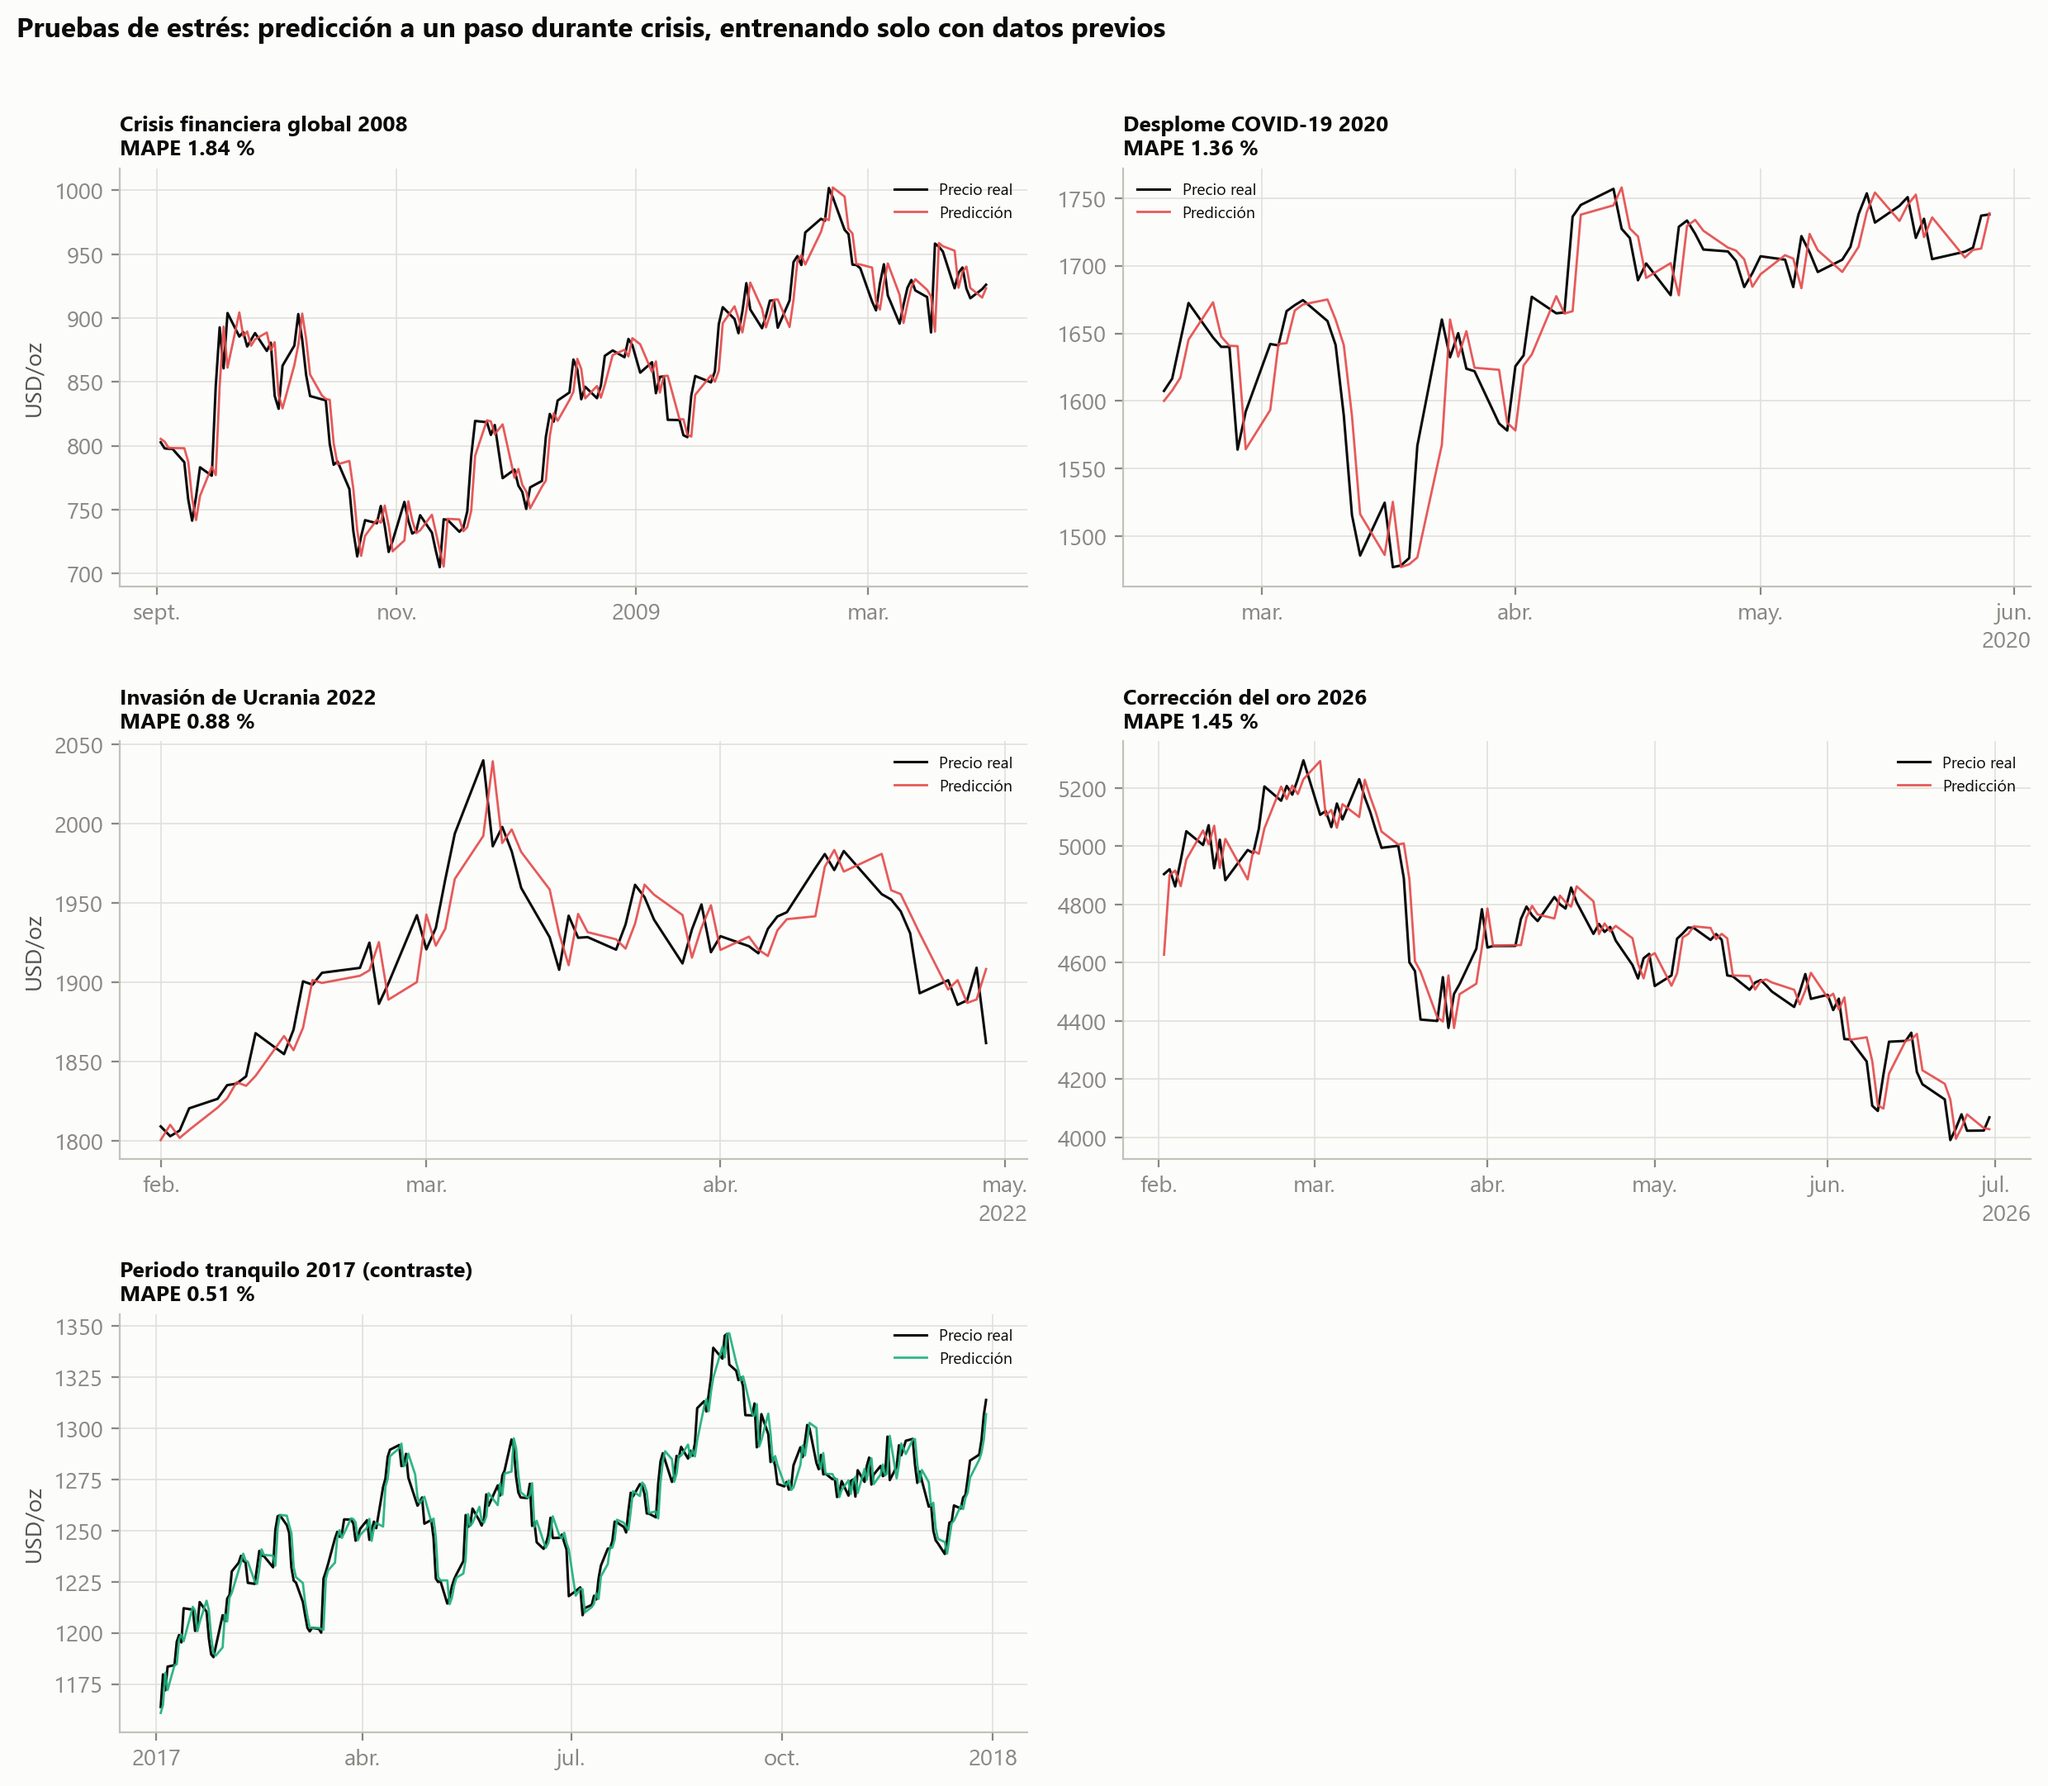
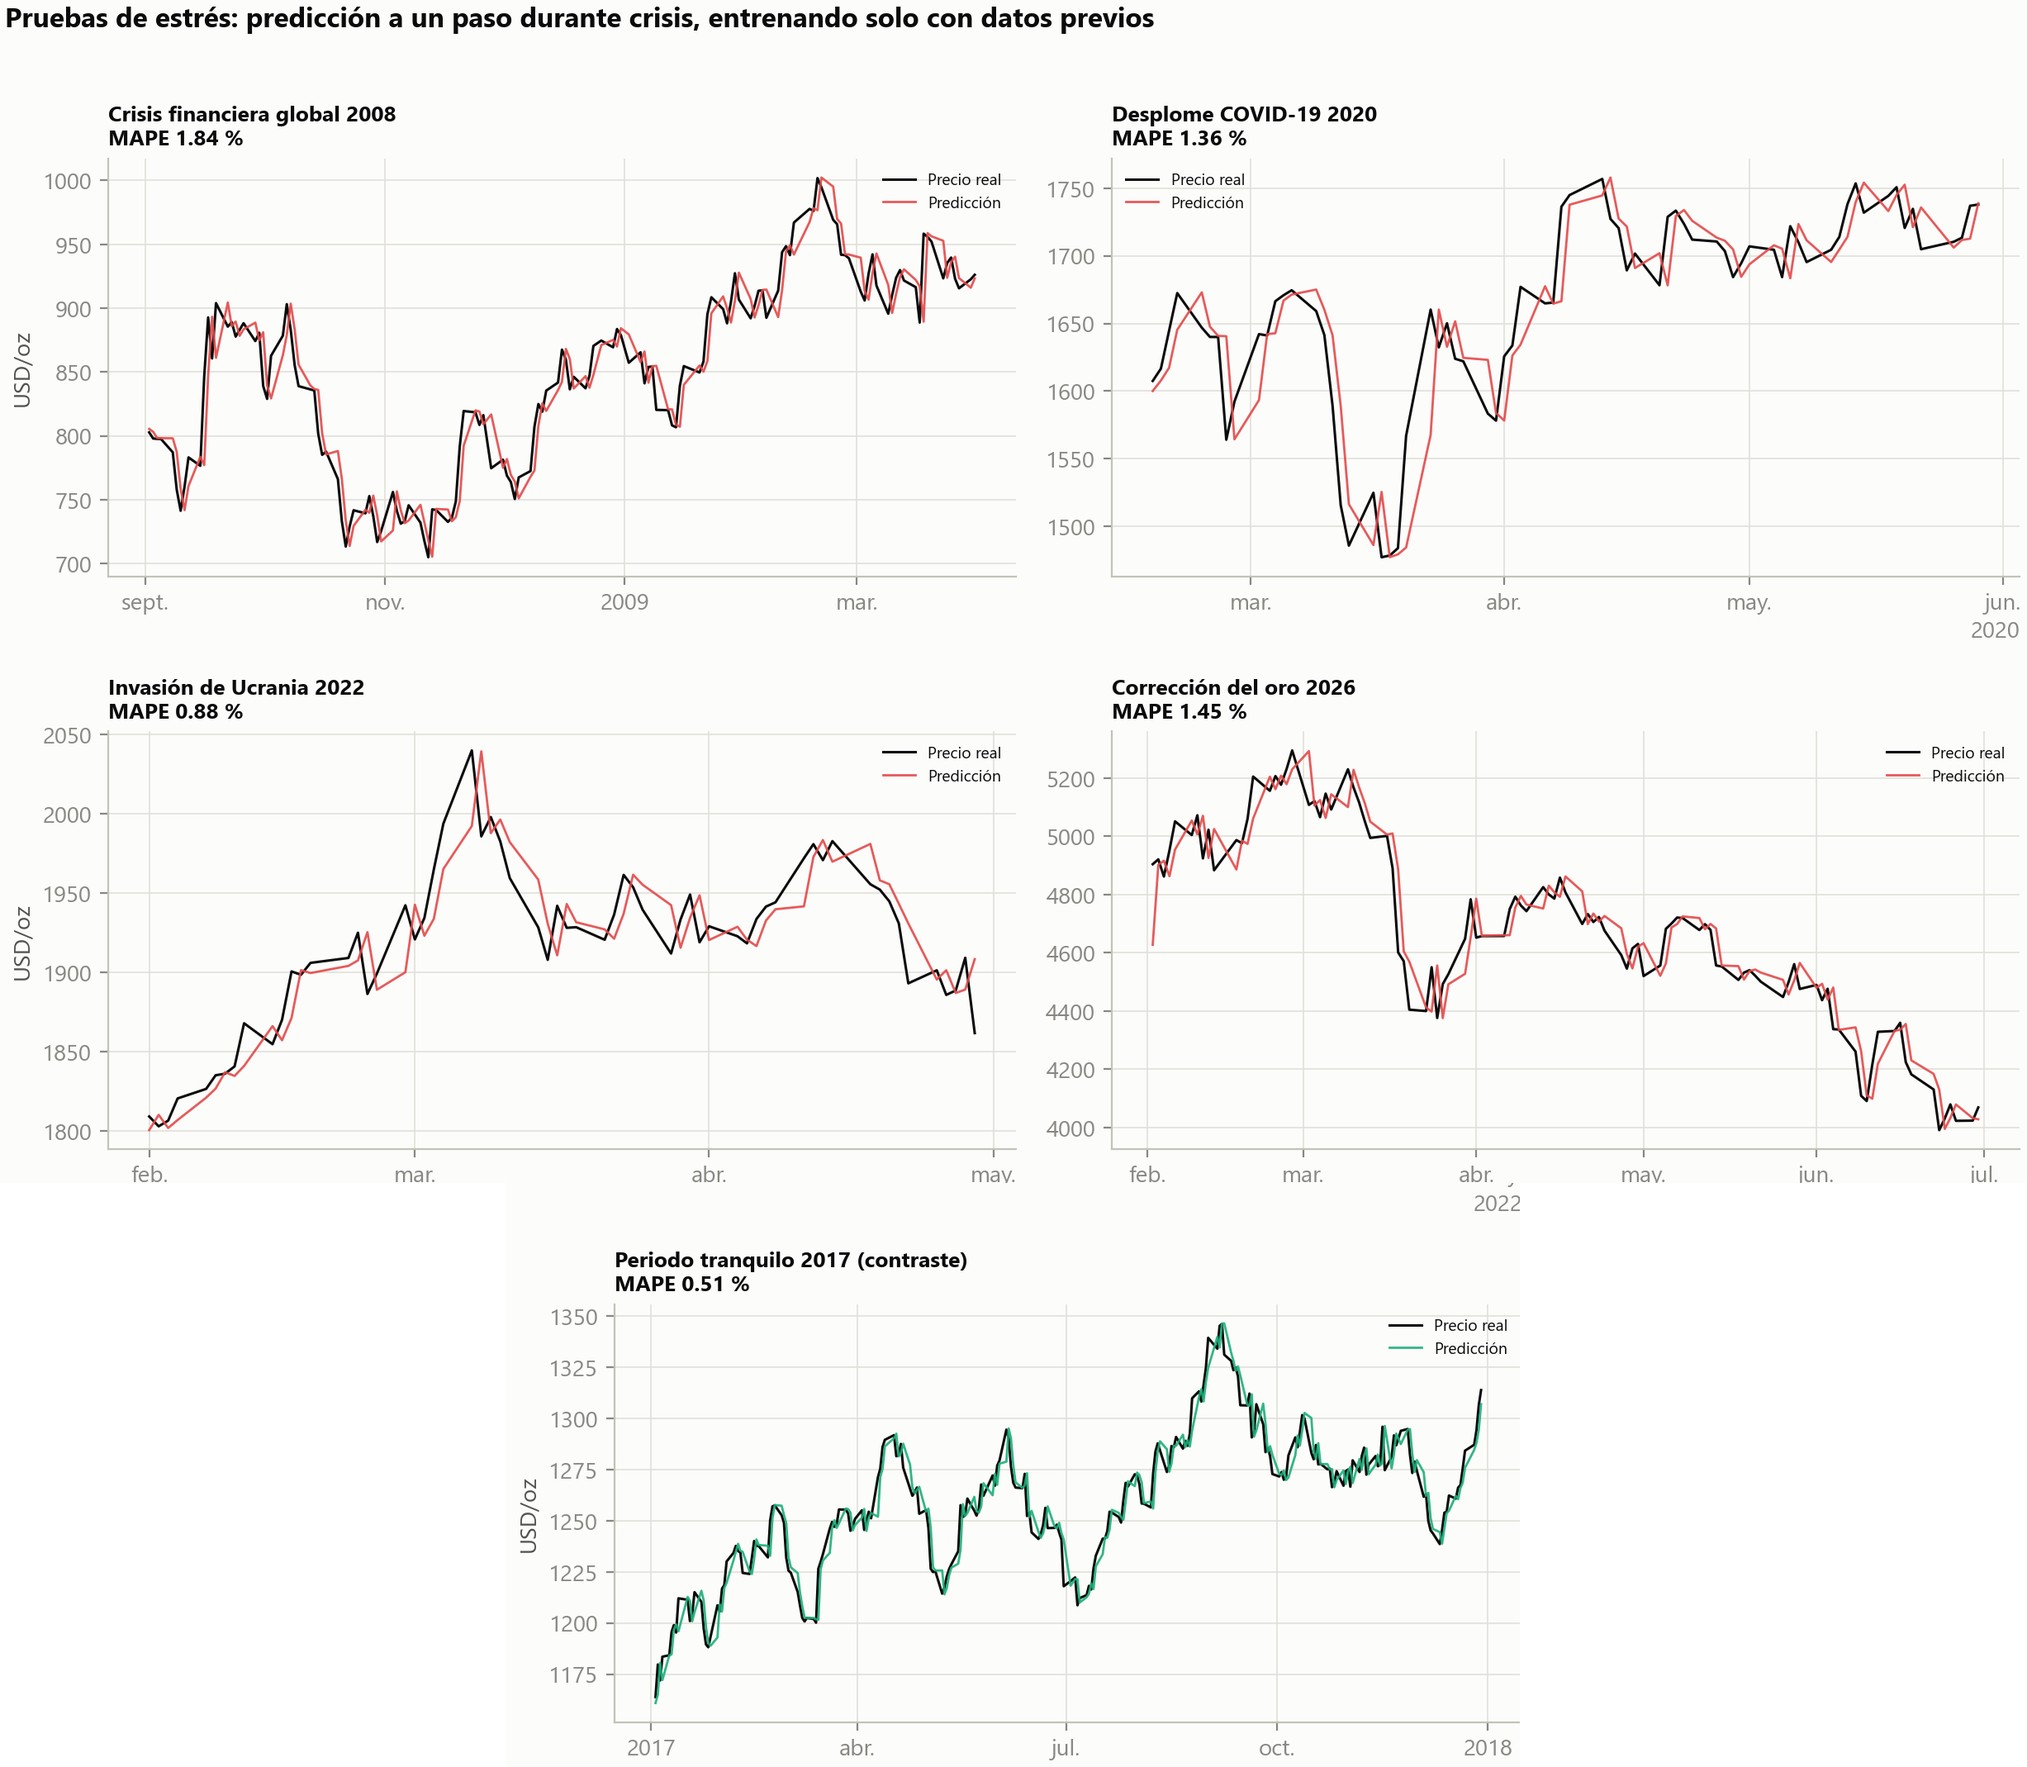
Agrandar gráficas en diapositivas 20 y 21 y equilibrar figura de estrés

diff --git a/presentacion/index.html b/presentacion/index.html
@@ -94,6 +94,9 @@
   .stats.mini .stat{padding:10px 16px; min-width:130px}
   .stats.mini .v{font-size:24px}
   .stats.mini .l{font-size:11px; margin-top:4px}
+  .figwrap.hug{align-items:center; justify-content:center}
+  .figwrap.hug .fig{flex:0 1 auto; min-height:0; max-width:100%}
+  .figwrap.hug .fig img{flex:1; min-height:0; width:100%; height:100%}
 
   .stats{display:flex; gap:16px; flex-wrap:wrap}
   .stat{
@@ -698,8 +701,8 @@
         <li>En 2026 el RMSE (87 USD) es alto por el <b>nivel del precio</b>; el MAPE queda en el rango turbulento.</li>
       </ul>
     </div>
-    <div class="figwrap">
-      <div class="fig fill"><img src="figuras/f14_pruebas_estres.png" alt="Predicción durante episodios de estrés"></div>
+    <div class="figwrap hug">
+      <div class="fig fill" style="aspect-ratio:2454/2139"><img src="figuras/f14_pruebas_estres.png" alt="Predicción durante episodios de estrés"></div>
       <div class="figcap">Predicción a un paso durante los episodios de estrés y el periodo tranquilo de contraste.</div>
     </div>
   </div>
@@ -716,7 +719,7 @@
     <span class="chip">crisis: vol ×1.4 + <b>saltos Poisson</b></span>
     <span class="chip">optimista: vol ×0.9</span>
   </div>
-  <div class="two w46 fill" style="align-items:stretch">
+  <div class="two fill" style="grid-template-columns:1fr 2fr; align-items:stretch">
     <div>
       <div class="stats" style="flex-direction:column">
         <div class="stat"><div class="v">11 558</div><div class="l">P50 base a 2035 · USD/oz</div></div>
@@ -724,8 +727,8 @@
         <div class="stat"><div class="v">13 536</div><div class="l">promedio 2035 — mayor que el P50 por la asimetría derecha</div></div>
       </div>
     </div>
-    <div class="figwrap">
-      <div class="fig fill"><img src="figuras/f16_montecarlo_base_p50_promedio.png" alt="Escenario base Monte Carlo hasta 2035"></div>
+    <div class="figwrap hug">
+      <div class="fig fill" style="aspect-ratio:2087/1081"><img src="figuras/f16_montecarlo_base_p50_promedio.png" alt="Escenario base Monte Carlo hasta 2035"></div>
       <div class="figcap">Escenario base: trayectorias, P50, promedio y bandas P10–P90 / P25–P75.</div>
     </div>
   </div>
